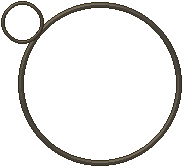
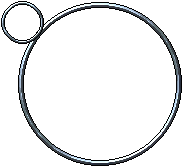
Add files via upload

Changed region(s): [[0.0, 0.0, 1.0, 1.0]]

diff --git a/readme.md b/readme.md
@@ -1,14 +1,20 @@
 ![!image](https://img.onl/2d6OIO)
 
-# 2012 INTERFACE (RESIZEABLE) 1.0
+# 2012 INTERFACE (RESIZEABLE) 1.1 (07-Jul-2020)
 
 # IF YOU WANT TO HELP ME COMPLETE THIS PROJECT, CONTACT ME ON DISCORD @ Shredit#6109
 
 ## Change log:
-Will be updated forward from this initial release
+- Updated the sprites for decorated scrollbar in the SCROLLBAR -folder
+- Updated the sprites for various icons in the OPTIONS -folder
+- Updated the sprites for Increment and Decrement buttons for GE -folder
+- Updated the sprites for various buttons in Worn Equipment screen in BUTTON -folder
+- Updated the sprites for various icons in the BANK -folder
+- Updated the sprites for minimap and compass in the RESIZEABLE_MODE -folder
+
 
 ## Current progress:
-85% completed out of all sprites that can be replaced
+90% completed out of all sprites that can be replaced
 
 ## To be done:
 WELCOME_SCREEN:
@@ -22,23 +28,18 @@ stash_units_slanted_edge_right (to be replaced)
 stash_units_slanted_edge_right_hovered (to be replaced)
 stash_units_slanted_middle (to be replaced)
 stash_units_slanted_middle_hovered (to be replaced)
+logout (to be reworked)
+logout_small (to be reworked)
 
 
 RESIZEABLE_MODE:
-minimap_and_compass_frame (currently a placeholder, needs to be remade to match the original 2012 look)
 side_panel_edge_right (not sure if even used anywhere, but incase it is, needs to be remade to match 2012 look)
 side_panel_edge_right (not sure if even used anywhere, but incase it is, needs to be remade to match 2012 look)
 
-SCROLLBAR:
-decorated_arrow_down (to be replaced)
-decorated_arrow_up (to be replaced)
-decorated_frame_bottom (to be replaced)
-decorated_frame_middle (to be replaced)
-decorated_frame_top (to be replaced)
-decorated_middle (to be replaced)
+
 
 OPTIONS:
-(Whole folder needs to be replaced except thumb sliders)
+(Few more icons to be updated/reworked)
 slider_and_thumb_3_of_4 (needs to be recolored)
 slider_and_thumb_4_of_4 (needs to be recolored)
 
@@ -51,14 +52,8 @@ COMBAT:
 BUTTON:
 EQUIPMENT_EDGE... (Original sprites are fine and fitting, but could be replaced if wanted)
 WORLD_MAP_EDGE... (Original sprites are fine and fitting, but could be replaced if wanted)
-equipment_guide_prices (needs to be replaced)
-equipment_items_lost_on_death (needs to be replaced)
-equipment_stats_icon (needs to be replaced)
 
-BANK:
-tag_up_arrow (needs to be remade)
-tag_down_arrow (needs to be remade)
-show_menu_icon (needs to be remade)
+
 
 ## Credits:
 Jagex for assets
